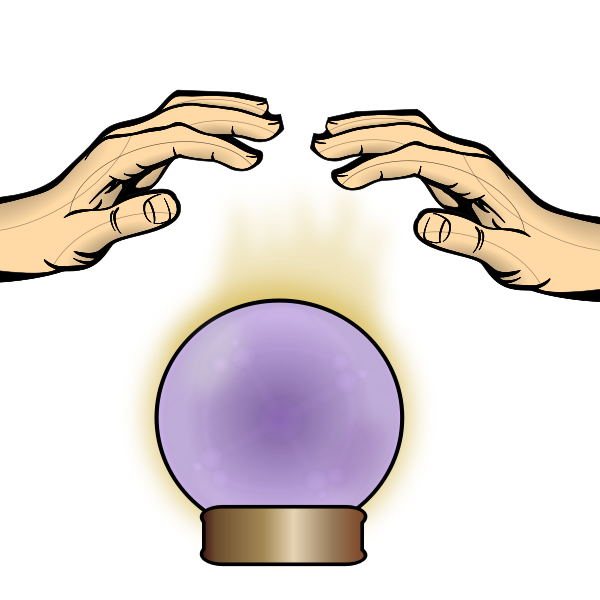
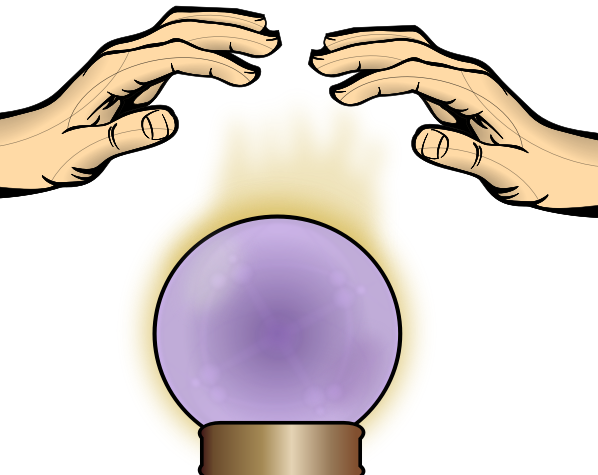
crystal ball works maybe?????

diff --git a/style.css b/style.css
@@ -15,12 +15,15 @@ html {
     background-color: #000000;
     color: whitesmoke;
     text-align: center;
-    background-image: url(curtains\(2\).png), url(crystallball2.png);
-    background-position: 50% 35%, 50% 275%;
-    background-repeat: no-repeat, no-repeat;
-    background-size: 1500px, 400px ;
-    padding-top: 100px;
+
+    background-image: url(curtains\(2\).png);
+    background-position: 50% 60%;
+    background-repeat: no-repeat;
+    background-size: 1500px;
+
+    padding-top: 80px;
 }
+
 
 h1 {
     font-family: title font;
@@ -42,6 +45,10 @@ a:visited {
 
 .button {
     line-height: 9;
+
+    position: absolute;
+    bottom: 24%;
+    right: 44.3%;
 }
 
 

diff --git a/index.html b/index.html
@@ -7,15 +7,19 @@
         </title>
     </head>
     <body>
-        <div class = "home">
         <h1>WHAT'S YOUR LEGACY?</h1>
         <h2>How will you be remembered?</h2> 
         <p>Take our crystal ball quiz and we'll predict your future...</p>
         
-        <div class = "button">
-            <a href = "Quiz-Page.html">Glimpse the Future</a>
+        <div class = "container">
+            <img src="crystallball2.png" alt="crystal ball" width = 400px height = 300px>
+
+            <div class = "button">
+                <a href = "Quiz-Page.html">Glimpse the Future</a>
+            </div>
+
+
         </div>
 
-        </div>        
     </body>
 </html>
